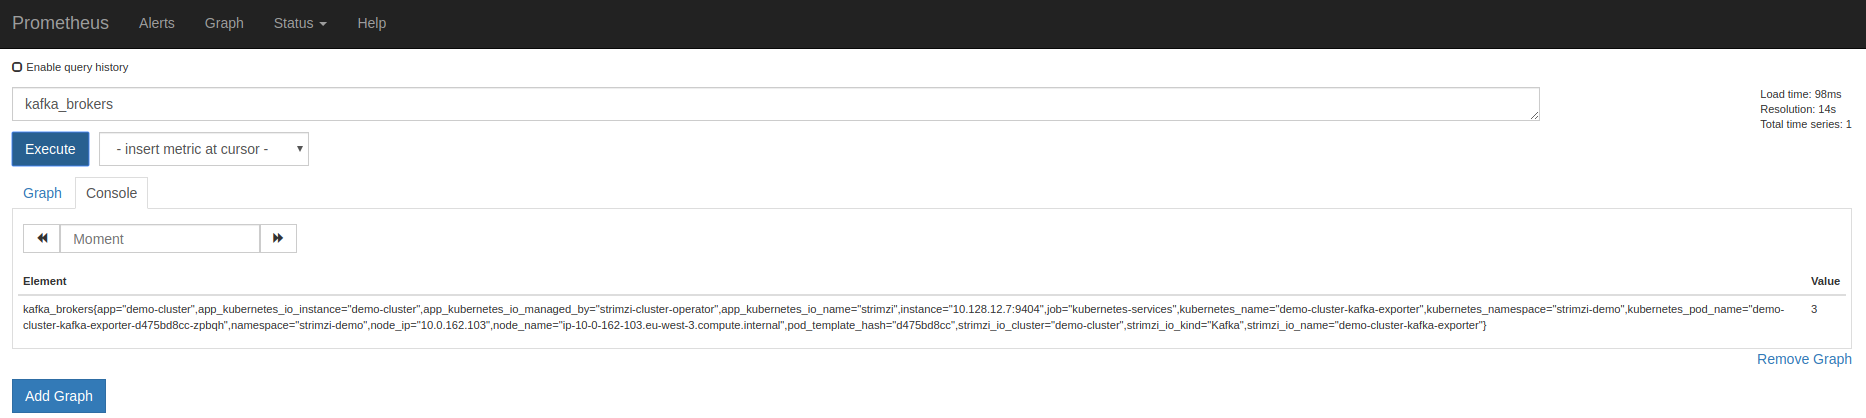
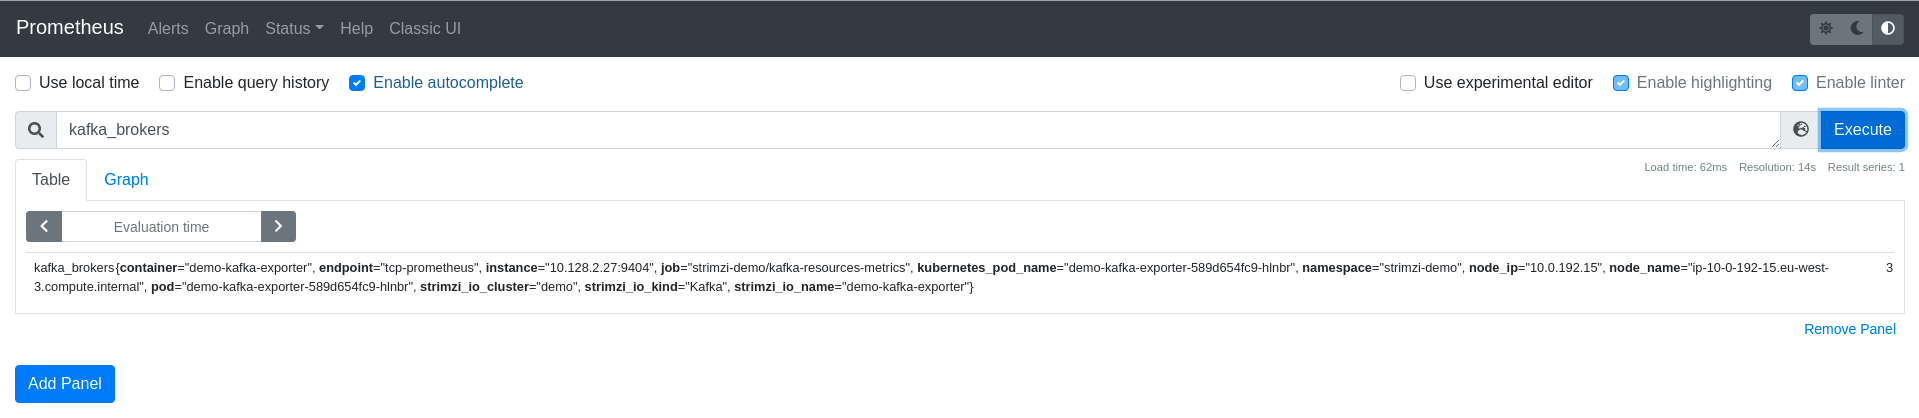
:memo: Documentation updated to Strimzi 0.23.0

diff --git a/README.md b/README.md
@@ -1,30 +1,34 @@
 # Strimzi Demo
 
-This repos has a sample demo to deploy an Apache Kafka cluster using [Strimzi Apache Kafka Operator](https://operatorhub.io/operator/strimzi-kafka-operator). The Apache Kafka cluster will expose metrics to Prometheus and
-Grafana dashboards managed by:
+This repository has a sample demo to deploy an Apache Kafka cluster using
+[Strimzi Apache Kafka Operator](https://operatorhub.io/operator/strimzi-kafka-operator) and
+some simple applications producing and consuming messages there.
+
+The Apache Kafka cluster will be monitored using a [Prometheus](https://prometheus.io/)
+and [Grafana](https://grafana.com/) instance managed by:
 
 * [Prometheus Operator](https://operatorhub.io/operator/prometheus): This operator creates and manages Prometheus
 instances to monitor services in a namespace.
 * [Grafana Operator](https://operatorhub.io/operator/grafana-operator): This operator creates and manages
-Grafana instances, import Grafana datasources and import Grafana Dashboards.
+Grafana instances, import Data Sources and Dashboards.
 
 ## Prepare OpenShift
 
-This demo has been tested in Red Hat OpenShift Container Platform 4.2 version.
+This demo has been tested in Red Hat OpenShift Container Platform 4.7 version.
 
 This version has deployed the Operator Lifecycle Manager (OLM), tool to help manage the
 Operators running on a cluster.
 
 As a normal user in your OpenShift cluster, create a ```strimzi-demo``` namespace:
 
-```bash
-oc login -u user
-oc new-project strimzi-demo
+```shell script
+❯ oc login -u user
+❯ oc new-project strimzi-demo
 ```
 
 **NOTE:** To deploy the different Operators we need to use an user with ```cluster-admin``` role.
 
-```bash
+```shell script
 oc login -u admin-user
 ```
 
@@ -32,12 +36,18 @@ oc login -u admin-user
 
 Install the latest version of the operator running the following command:
 
-```bash
+```shell script
 oc create -f strimzi-operator/strimzi-kafka-operator.yaml
 ```
 
 The Strimzi Operator will be installed in the ```openshift-operators``` namespace and will be usable
 from any namespaces in the cluster.
+
+```shell script
+❯ oc get pod -n openshift-operators
+NAME                                                READY   STATUS    RESTARTS   AGE
+strimzi-cluster-operator-v0.23.0-5f6d486bf7-jqd5v   1/1     Running   0          26h
+```
 
 ### Deploy Prometheus and Grafana Operators
 
@@ -49,13 +59,16 @@ This repo will use [Prometheus Operator](https://operatorhub.io/operator/prometh
 [Grafana Operator](https://operatorhub.io/operator/grafana-operator) to deploy them and monitor the
 Apache Kafka ecosystem easily.
 
-To get detailed configuration, please, review the [Appendix C: Metrics](https://strimzi.io/docs/latest/#assembly-metrics-setup-str) from Strimzi Documentation site.
+To get detailed configuration, please, review the
+[Introducing Metrics to Kafka](https://strimzi.io/docs/operators/latest/deploying.html#assembly-metrics-str)
+from Strimzi Documentation site.
 
-**NOTE:** To deploy Prometheus and Grafana Operators we need to install previously an OperatorGroup to match the
-Operator's installation mode and the namespace. This step is describe in [Adding Operators to a cluster](https://docs.openshift.com/container-platform/4.2/operators/olm-adding-operators-to-cluster.html) page from
-[OpenShift 4.2 Documentation](https://docs.openshift.com/container-platform/4.2/welcome/index.html) site
+**NOTE:** To deploy Prometheus and Grafana Operators we need to install previously an `OperatorGroup` to match the
+Operator's installation mode and the namespace. This step is describe in
+[Adding Operators to a cluster](https://docs.openshift.com/container-platform/4.7/operators/admin/olm-adding-operators-to-cluster.html)
+page from [OpenShift Documentation](https://docs.openshift.com/container-platform/4.7/welcome/index.html) site.
 
-```bash
+```shell script
 oc apply -f metrics/operator-group.yaml
 ```
 
@@ -63,27 +76,27 @@ Now we could deploy the subscriptions for each operator as:
 
 Deploying Prometheus Operator in ```strimzi-demo``` namespace:
 
-```bash
+```shell script
 oc apply -f metrics/prometheus/operator/prometheus-operator.yaml
 ```
 
 Deploying Grafana Operator in ```strimzi-demo``` namespace:
 
-```bash
+```shell script
 oc apply -f metrics/grafana/operator/grafana-operator.yaml
 ```
 
-After some minutes we could check these operators are installed and availables:
+After some minutes we could check these operators are installed and available:
 
-```bash
-$ oc get csv
-NAME                              DISPLAY                       VERSION  REPLACES                          PHASE
-grafana-operator.v2.0.0           Grafana Operator              2.0.0    grafana-operator.v1.3.0           Succeeded
-prometheusoperator.0.32.0         Prometheus Operator           0.32.0   prometheusoperator.0.27.0         Succeeded
-strimzi-cluster-operator.v0.14.0  Strimzi Apache Kafka Operator 0.14.0   strimzi-cluster-operator.v0.13.0  Succeeded
+```shell script
+❯ oc get csv
+NAME                               DISPLAY               VERSION   REPLACES                           PHASE
+grafana-operator.v3.10.1           Grafana Operator      3.10.1    grafana-operator.v3.10.0           Succeeded
+prometheusoperator.0.47.0          Prometheus Operator   0.47.0    prometheusoperator.0.37.0          Succeeded
+strimzi-cluster-operator.v0.23.0   Strimzi               0.23.0    strimzi-cluster-operator.v0.22.1   Succeeded
 ```
 
-As soon the operators are installed we could follow to install the Metrics Platform and the Apache Kafka Cluster
+As soon the operators are installed we could follow to install the Metrics Platform and the Apache Kafka Cluster.
 
 ## Deploy Metrics Platform
 
@@ -92,22 +105,28 @@ we could manage the metrics from our Apache Kafka Cluster.
 
 To deploy a local Prometheus Server in ```strimzi-demo``` namespace.
 
-```bash
-oc create secret generic additional-scrape-configs --from-file=metrics/prometheus/prometheus-additional.yaml
-oc apply -f metrics/prometheus/strimzi-service-monitor.yaml
-oc apply -f metrics/prometheus/prometheus-rules.yaml
-oc apply -f metrics/prometheus/prometheus.yaml
+```shell script
+❯ oc apply -f metrics/prometheus/prometheus-additional.yaml
+❯ oc apply -f metrics/prometheus/strimzi-pod-monitor.yaml
+❯ oc apply -f metrics/prometheus/prometheus-rules.yaml
+❯ oc apply -f metrics/prometheus/prometheus.yaml
 ```
 
 A Prometheus instance will be available with a service and a route:
 
-```bash
-$ oc get svc
+```shell script
+❯ oc get svc
 NAME                  TYPE        CLUSTER-IP       EXTERNAL-IP   PORT(S)    AGE
-prometheus            ClusterIP   172.30.224.132   <none>        9090/TCP   65s
-prometheus-operated   ClusterIP   None             <none>        9090/TCP   65s
-$ oc get route prometheus -o jsonpath='{.spec.host}'
-prometheus-strimzi-demo40.apps.dev.sandbox1249.opentlc.com
+prometheus-operated   ClusterIP   None             <none>        9090/TCP   34s
+❯ oc get route
+NAME        HOST/PORT                                                  PATH   SERVICES             PORT   TERMINATION   WILDCARD
+prometheus  prometheus-strimzi-demo.apps.labs.sandbox1862.opentlc.com         prometheus-operated  web                  None
+```
+
+To get the route to access Prometheus:
+
+```shell script
+oc get route prometheus -o jsonpath='{.spec.host}'
 ```
 
 The Prometheus Dashboard will be similar to:
@@ -116,33 +135,31 @@ The Prometheus Dashboard will be similar to:
 
 Deploy Grafana:
 
-```bash
+```shell script
 oc apply -f metrics/grafana/grafana.yaml
 ```
 
-Grafana will deploy a Datasource connected to the Prometheus server available by Promtheus
-in the endpoint ```http://prometheus-operated:9090```. The Grafana Server will use that Datasource
+Grafana will deploy a Data Source connected to the Prometheus server available by Prometheus
+in the endpoint ```http://prometheus-operated:9090```. The Grafana Server will use that Data Source
 to get the metrics.
 
 Grafana has a set of dashboards to review the metrics from Apache Zookeeper and Apache Kafka Cluster. We could
 deploy it as:
 
-```bash
-oc apply -f metrics/grafana/grafana-dashboard-strimzi-kafka.yaml
-oc apply -f metrics/grafana/grafana-dashboard-strimzi-zookeeper.yaml
-oc apply -f metrics/grafana/grafana-dashboard-strimzi-kafka-exporter.yaml
+```shell script
+oc apply -f metrics/grafana/dashboards/
 ```
 
 To get the route to access Grafana:
 
-```bash
+```shell script
 oc get route grafana-route -o jsonpath='{.spec.host}'
 ```
 
 Use the original credentials **root/secret** as user/password. These credentials are defined in the
 [Grafana CR](./metrics/grafana/grafana.yaml) file.
 
-Grafana Dashaboards will be displayed in Grafana as:
+Grafana Dashboards will be displayed in Grafana as:
 
 ![Grafana Dashboards](./img/grafana-dashboards.png)
 
@@ -150,7 +167,7 @@ Grafana Dashaboards will be displayed in Grafana as:
 
 We change to use a non-cluster-admin user to deploy our metrics platform.
 
-```bash
+```shell script
 oc login -u user
 ```
 
@@ -162,40 +179,58 @@ We change to use a non-cluster-admin user to deploy our metrics platform.
 
 Apache Kafka cluster is deployed using the custom resource in [kafka-cluster.yaml](./strimzi-cr/kafka-cluster.yaml) file:
 
-```bash
-oc create -f strimzi-cr/kafka-cluster.yaml
+```shell script
+❯ oc create -f strimzi-cr/configmap/
+❯ oc create -f strimzi-cr/kafka-cluster.yaml
 ```
 
 After some minutes the Apache Kafka Cluster is deployed with the following set of pods:
 
-```bash
-$ oc get pod
-NAME                                            READY     STATUS    RESTARTS   AGE
-demo-cluster-entity-operator-789556fbdd-bwk54   3/3       Running   0          67s
-demo-cluster-kafka-0                            2/2       Running   0          2m5s
-demo-cluster-kafka-1                            2/2       Running   0          2m5s
-demo-cluster-kafka-2                            2/2       Running   0          2m5s
-demo-cluster-zookeeper-0                        2/2       Running   0          3m33s
-demo-cluster-zookeeper-1                        2/2       Running   0          3m33s
-demo-cluster-zookeeper-2                        2/2       Running   0          3m33s
+```shell script
+❯ oc get pod
+NAME                                    READY   STATUS      RESTARTS   AGE
+demo-cruise-control-7b7f66f595-7c2qh    2/2     Running     0          24h
+demo-entity-operator-7c75c6b885-bz4cj   3/3     Running     0          27h
+demo-kafka-0                            1/1     Running     0          24h
+demo-kafka-1                            1/1     Running     0          4h18m
+demo-kafka-2                            1/1     Running     0          24h
+demo-kafka-exporter-589d654fc9-hlnbr    1/1     Running     2          26h
+demo-zookeeper-0                        1/1     Running     0          24h
+demo-zookeeper-1                        1/1     Running     0          24h
+demo-zookeeper-2                        1/1     Running     0          24h
 ```
 
 ## Deploy Kafka Topic
 
 A Kafka Topic is created using the custom resource in [kafka-topic.yaml](./strimzi-cr/kafka-topic.yaml) file:
 
-```bash
+```shell script
 oc create -f strimzi-cr/kafka-topic.yaml
 ```
 
-This custom resurce will create the topic ```greetings```:
+This custom resource will create the topic ```greetings```:
 
-```bash
-$ oc get kafkatopic
-NAME       PARTITIONS   REPLICATION FACTOR
-greetings  3            2
+```shell script
+❯ oc get kafkatopic
+NAME       CLUSTER   PARTITIONS   REPLICATION FACTOR   READY
+greetings  demo      3            2                    True
 ```
 
+## Deploy Kafka User
+
+A Kafka User is created using the custom resource in [kafka-user.yaml](./strimzi-cr/kafka-user.yaml) file:
+
+```shell script
+oc create -f strimzi-cr/kafka-user.yaml
+```
+
+This custom resource will create the user ```user-demo```:
+
+```shell script
+❯ oc get kafkauser
+NAME        CLUSTER   AUTHENTICATION   AUTHORIZATION   READY
+user-demo   demo      tls              simple          True
+```
 ## Deploy Producer and Consumer
 
 To test the Apache Kafka cluster we will deploy some jobs to produce and consume messages using the
@@ -203,38 +238,23 @@ plain connection protocol:
 
 This producer will send a set of messages to the topic ```greetings```:
 
-```bash
+```shell script
 oc create -f sample-apps/job-sample-producer.yaml
 ```
 
 This consumer will consume messages from each partition of the ```greetings``` topic:
 
-```bash
+```shell script
 oc create -f sample-apps/job-sample-consumer.yaml
 ```
 
 You could check the status of the jobs or pods with the commands
 
-```bash
-$ oc get job
+```shell script
+❯ oc get job
 NAME                  COMPLETIONS   DURATION   AGE
-sample-consumer-job   3/3           104s       115s
-sample-producer-job   1/1           116s       2m7s
-```
-
-## Deploy Secured Producer and Consumer
-
-To test the Apache Kafka cluster we will deploy some jobs to produce and consume messages using the
-secured connection protocol:
-
-```bash
-oc create -f sample-apps/job-ssl-sample-producer.yaml
-```
-
-This consumer will consume messages from each partition of the ```greetings``` topic:
-
-```bash
-oc create -f sample-apps/job-ssl-sample-consumer.yaml
+sample-consumer-job   3/3           85s        4m52s
+sample-producer-job   1/1           2m7s       4m52s
 ```
 
 ## Grafana Dashboards
@@ -251,3 +271,24 @@ The Zookeeper Dashboard could be similar to:
 The Kafka Exporter Dashboard could be similar to:
 
 ![Apache Kafka Exporter Dashboard in Grafana](./img/grafana-kafka-exporter-dashboard.png)
+
+The Kafka Cruise Control Dashboard could be similar to:
+
+![Apache Kafka Cruise Control Dashboard in Grafana](./img/grafana-cruise-control-dashboard.png)
+
+The Strimzi Operators Dashboard could be similar to:
+
+![Strimzi Operators Dashboard in Grafana](./img/grafana-operators-dashboard.png)
+
+## References
+
+Strimzi:
+
+* [Strimzi Overview guide](https://strimzi.io/docs/operators/latest/overview.html)
+* [Using Strimzi](https://strimzi.io/docs/operators/latest/using.html)
+* [Deploying and Upgrading](https://strimzi.io/docs/operators/latest/deploying.html)
+* [Apache Kafka Client Examples](https://github.com/strimzi/client-examples)
+
+Apache Kafka:
+
+* [Apache Kafka](https://kafka.apache.org/)
